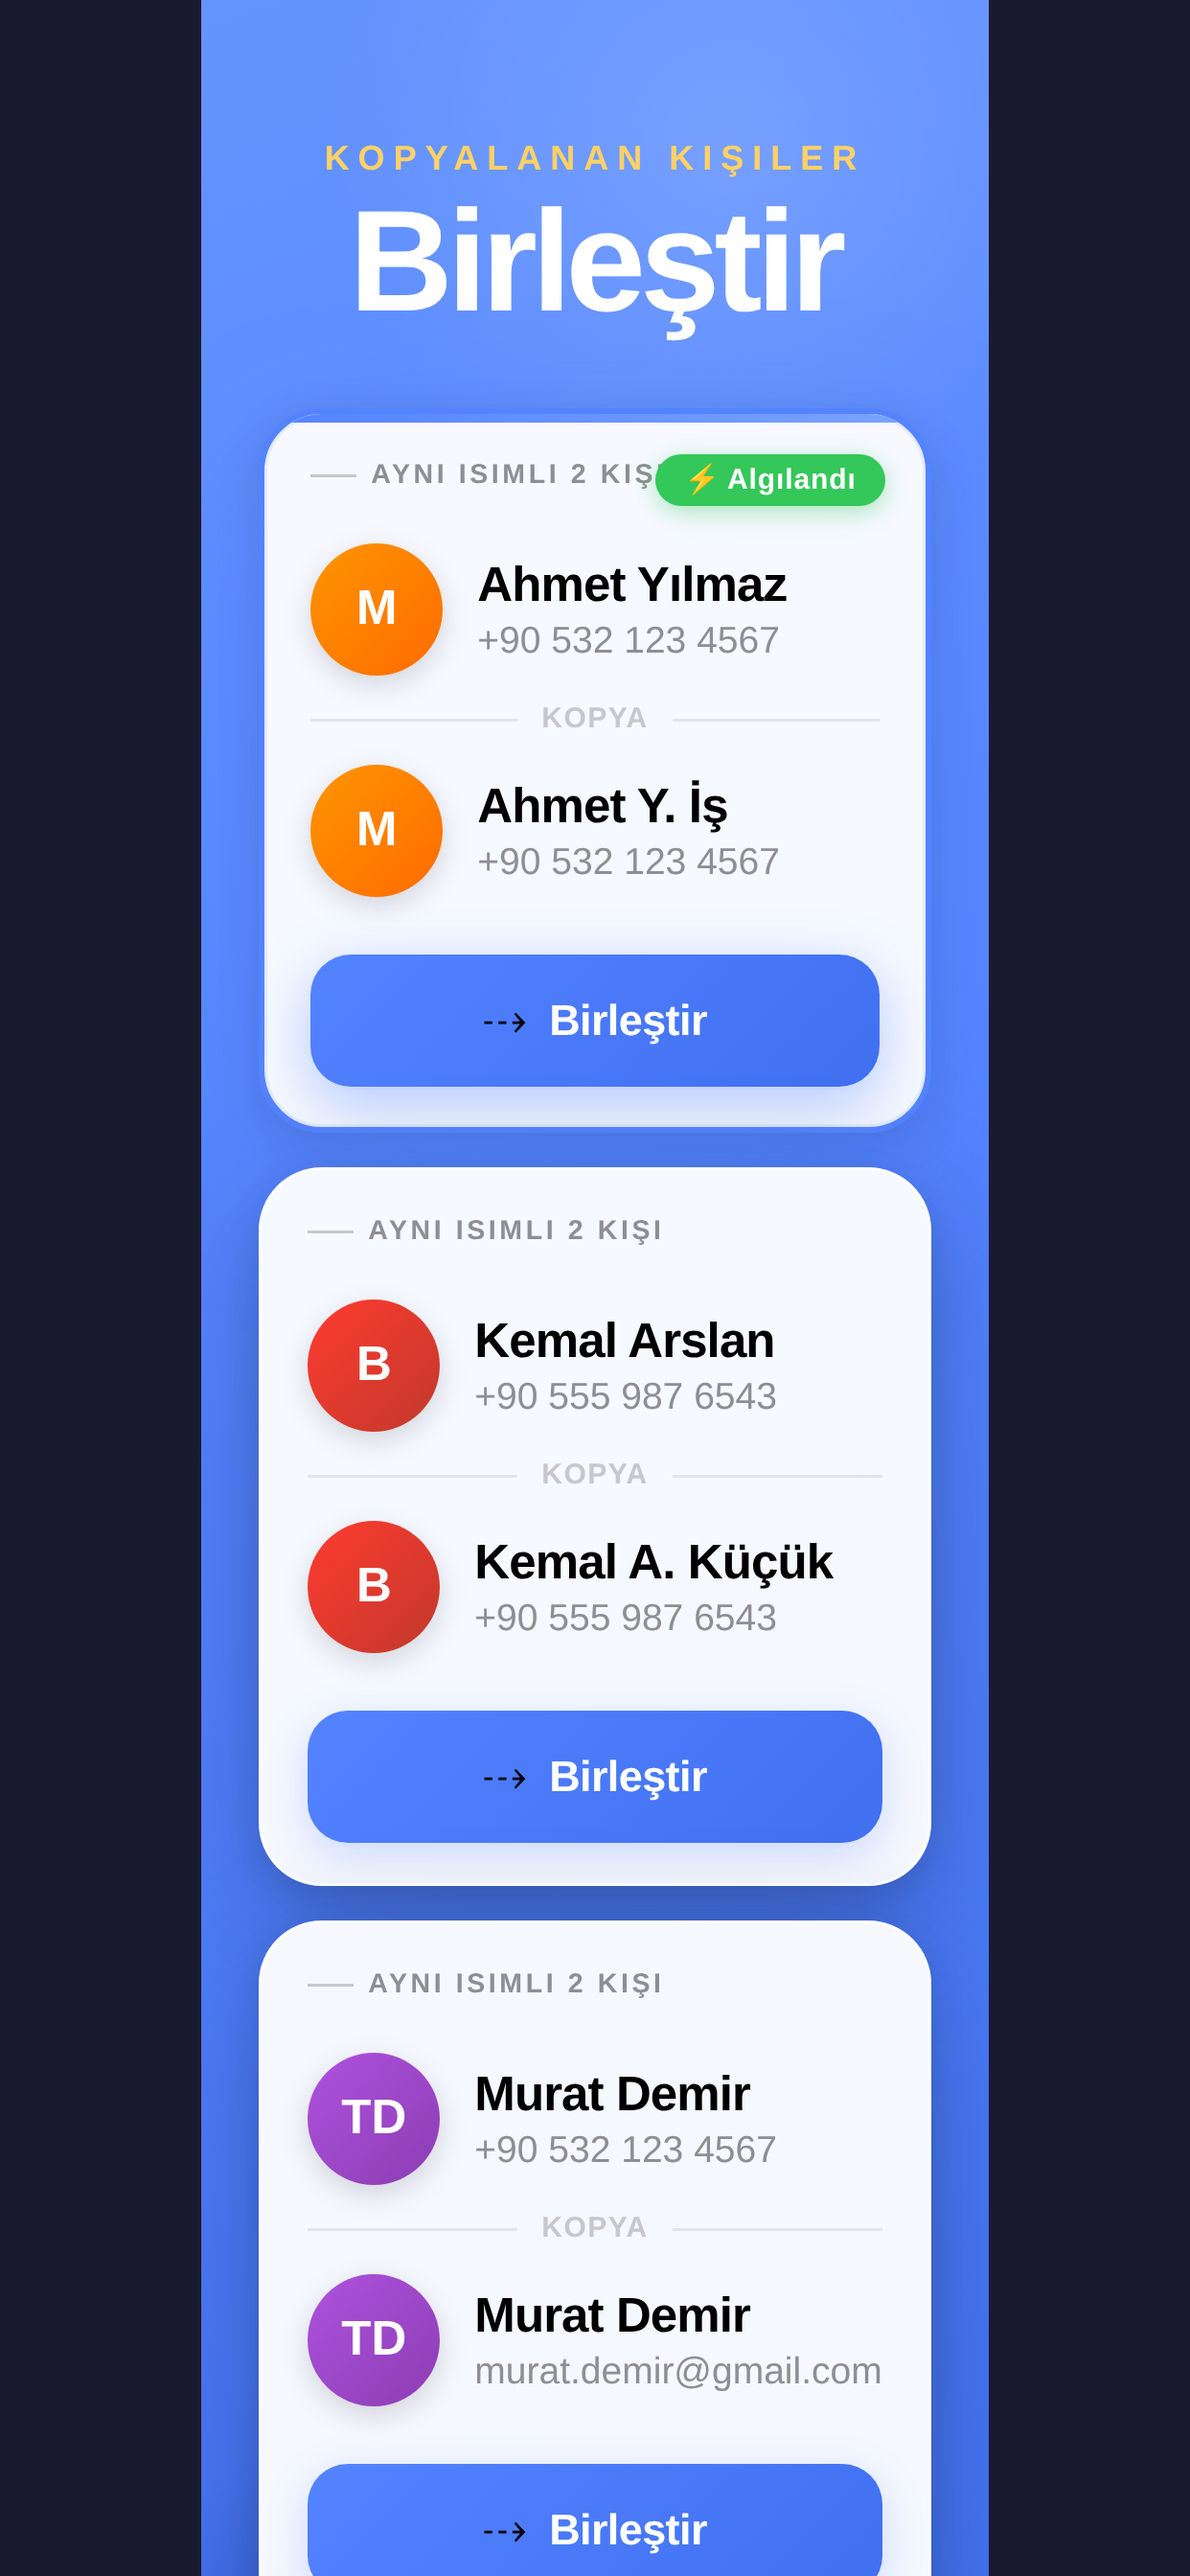
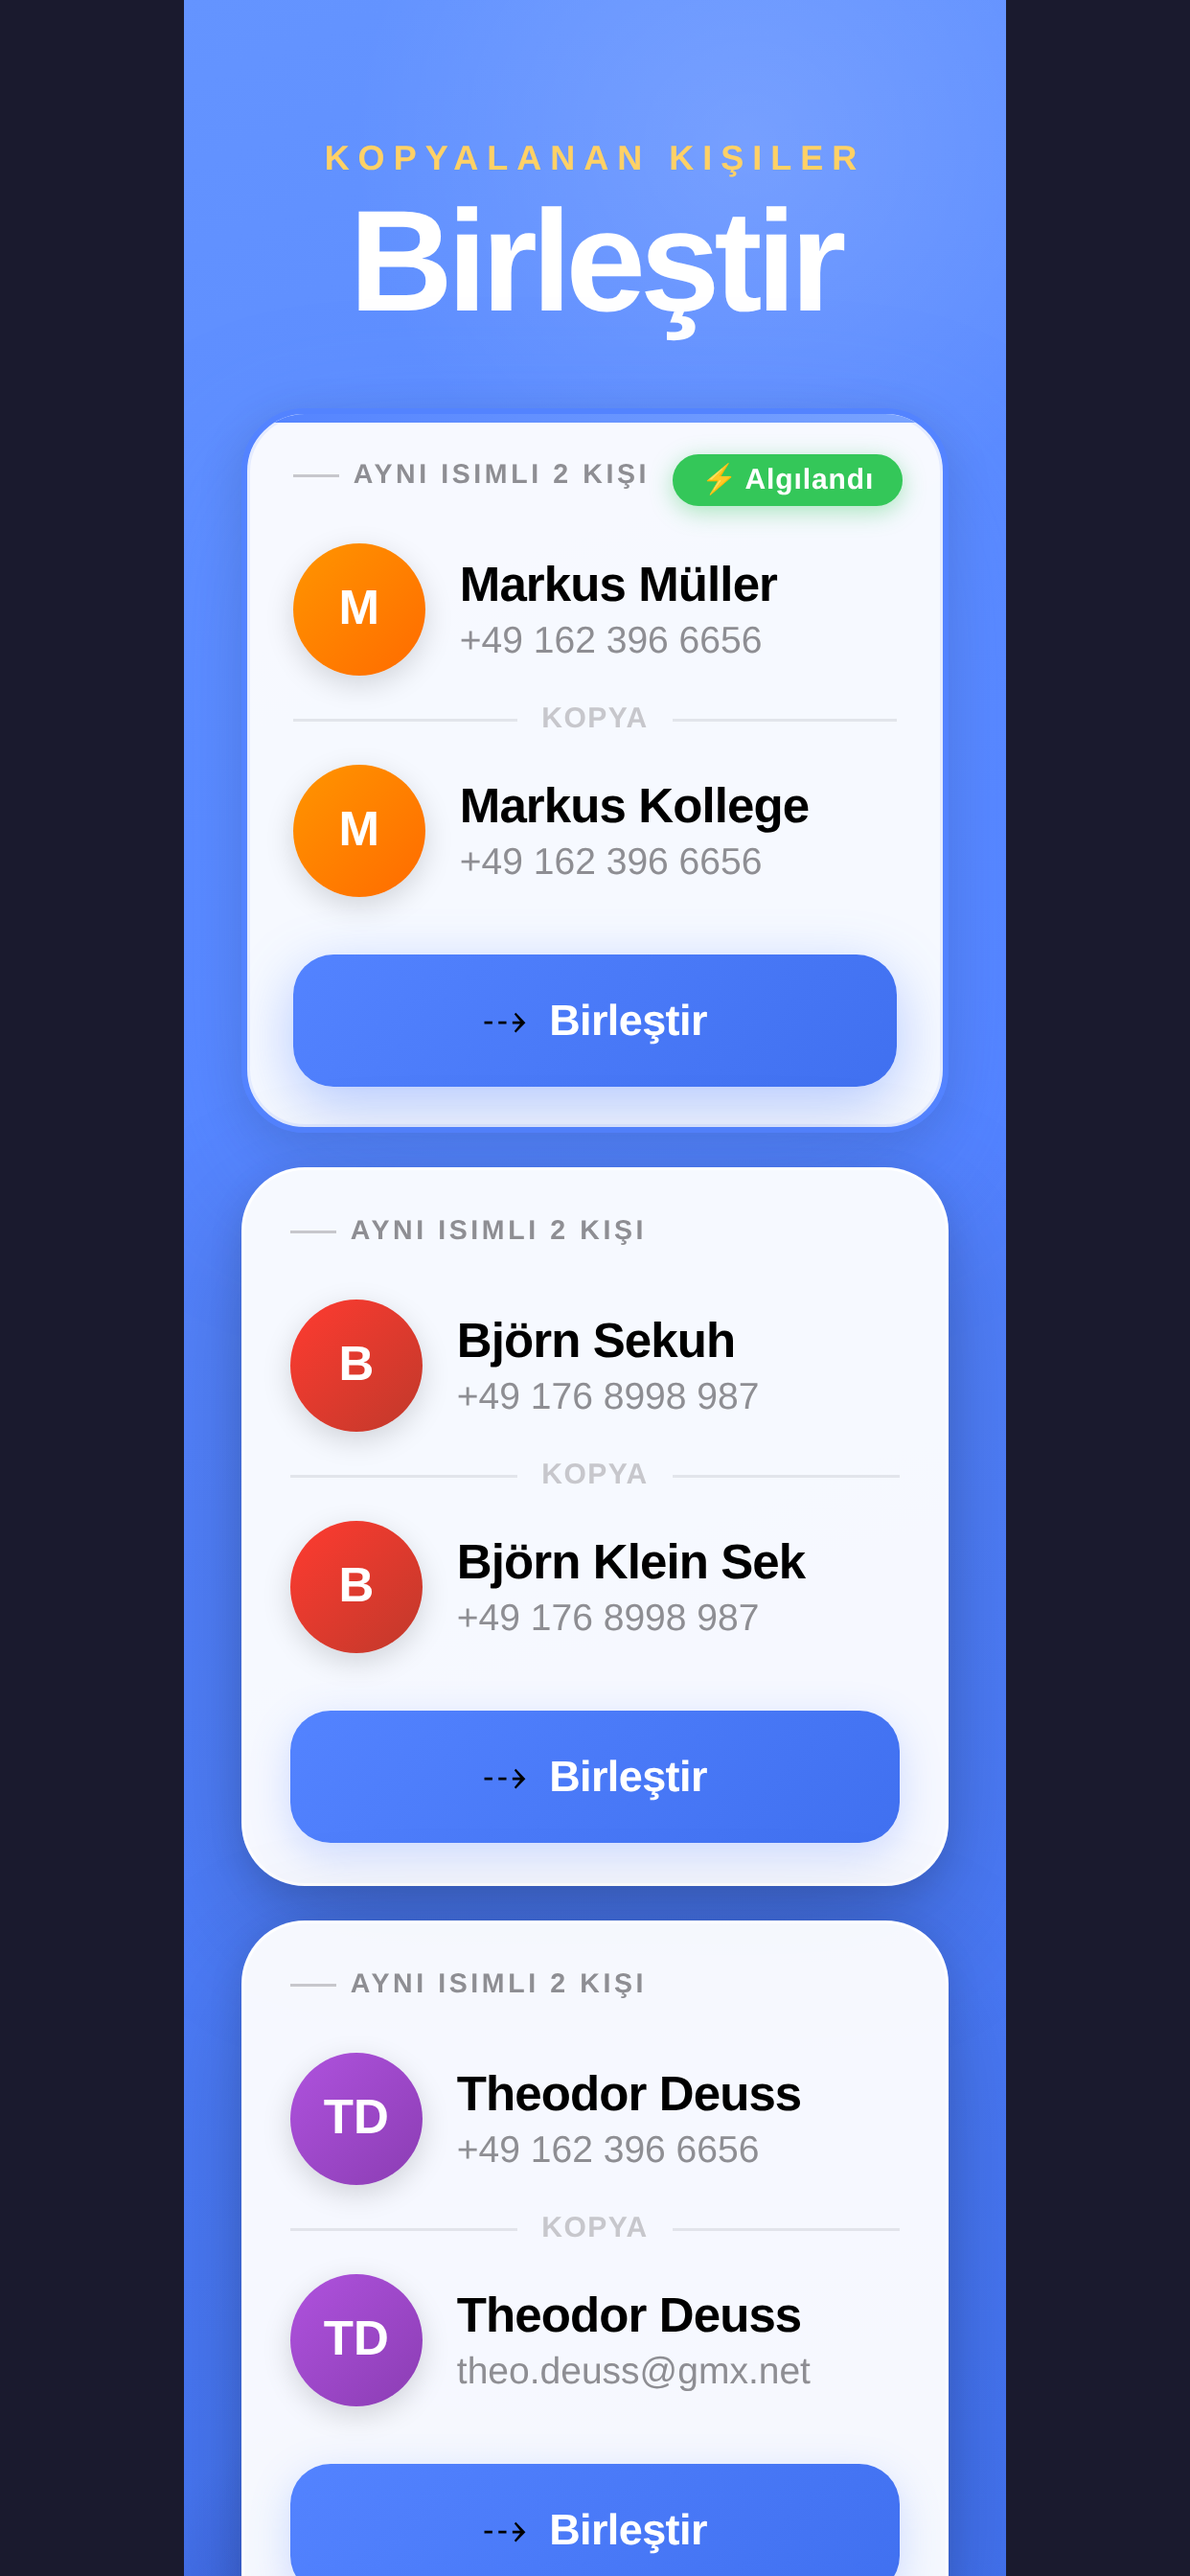
fix: EN/TR Slides — alle deutschen Texte korrekt übersetzt (Automatisch→Automatically etc.)

diff --git a/frontend/assets/screenshot_slide5_tr.html b/frontend/assets/screenshot_slide5_tr.html
@@ -191,8 +191,8 @@
       <div class="contact-row">
         <div class="avatar" style="background: linear-gradient(135deg, #FF9500, #FF6B00);">M</div>
         <div class="contact-info">
-          <div class="contact-name">Ahmet Yılmaz</div>
-          <div class="contact-detail">+90 532 123 4567</div>
+          <div class="contact-name">Markus Müller</div>
+          <div class="contact-detail">+49 162 396 6656</div>
         </div>
       </div>
 
@@ -205,8 +205,8 @@
       <div class="contact-row">
         <div class="avatar" style="background: linear-gradient(135deg, #FF9500, #FF6B00);">M</div>
         <div class="contact-info">
-          <div class="contact-name">Ahmet Y. İş</div>
-          <div class="contact-detail">+90 532 123 4567</div>
+          <div class="contact-name">Markus Kollege</div>
+          <div class="contact-detail">+49 162 396 6656</div>
         </div>
       </div>
 
@@ -223,8 +223,8 @@
       <div class="contact-row">
         <div class="avatar" style="background: linear-gradient(135deg, #FF3B30, #C0392B);">B</div>
         <div class="contact-info">
-          <div class="contact-name">Kemal Arslan</div>
-          <div class="contact-detail">+90 555 987 6543</div>
+          <div class="contact-name">Björn Sekuh</div>
+          <div class="contact-detail">+49 176 8998 987</div>
         </div>
       </div>
 
@@ -237,8 +237,8 @@
       <div class="contact-row">
         <div class="avatar" style="background: linear-gradient(135deg, #FF3B30, #C0392B);">B</div>
         <div class="contact-info">
-          <div class="contact-name">Kemal A. Küçük</div>
-          <div class="contact-detail">+90 555 987 6543</div>
+          <div class="contact-name">Björn Klein Sek</div>
+          <div class="contact-detail">+49 176 8998 987</div>
         </div>
       </div>
 
@@ -255,8 +255,8 @@
       <div class="contact-row">
         <div class="avatar" style="background: linear-gradient(135deg, #AF52DE, #8B3DB3);">TD</div>
         <div class="contact-info">
-          <div class="contact-name">Murat Demir</div>
-          <div class="contact-detail">+90 532 123 4567</div>
+          <div class="contact-name">Theodor Deuss</div>
+          <div class="contact-detail">+49 162 396 6656</div>
         </div>
       </div>
 
@@ -269,8 +269,8 @@
       <div class="contact-row">
         <div class="avatar" style="background: linear-gradient(135deg, #AF52DE, #8B3DB3);">TD</div>
         <div class="contact-info">
-          <div class="contact-name">Murat Demir</div>
-          <div class="contact-detail">murat.demir@gmail.com</div>
+          <div class="contact-name">Theodor Deuss</div>
+          <div class="contact-detail">theo.deuss@gmx.net</div>
         </div>
       </div>
 
@@ -283,7 +283,7 @@
     <!-- Bottom counter -->
     <div class="counter">
       <div class="counter-dot"></div>
-      <span class="counter-text">14 kopya grup bulundu</span>
+      <span class="counter-text">14 Kopya-Gruppen gefunden</span>
     </div>
 
   </div>

diff --git a/frontend/assets/screenshot_slide2_en.html b/frontend/assets/screenshot_slide2_en.html
@@ -173,7 +173,7 @@
 
     <!-- DUPLICATEE -->
     <div class="section">
-      <div class="section-eyebrow">Automatisch</div>
+      <div class="section-eyebrow">Automatically</div>
       <div class="section-title">Duplicates</div>
       <div class="pair">
         <div class="slot">
@@ -205,7 +205,7 @@
 
     <!-- ÄHNLICHE FOTOS -->
     <div class="section">
-      <div class="section-eyebrow">Und findet</div>
+      <div class="section-eyebrow">And finds</div>
       <div class="section-title">Similar Photos</div>
       <div class="pair">
         <div class="slot">

diff --git a/frontend/assets/screenshot_slide2_tr.html b/frontend/assets/screenshot_slide2_tr.html
@@ -173,7 +173,7 @@
 
     <!-- KOPYAE -->
     <div class="section">
-      <div class="section-eyebrow">Automatisch</div>
+      <div class="section-eyebrow">Otomatik</div>
       <div class="section-title">Kopyalar</div>
       <div class="pair">
         <div class="slot">
@@ -205,7 +205,7 @@
 
     <!-- ÄHNLICHE FOTOS -->
     <div class="section">
-      <div class="section-eyebrow">Und findet</div>
+      <div class="section-eyebrow">Ve bulur</div>
       <div class="section-title">Benzer Fotoğraflar</div>
       <div class="pair">
         <div class="slot">

diff --git a/frontend/assets/screenshot_slide5_en.html b/frontend/assets/screenshot_slide5_en.html
@@ -283,7 +283,7 @@
     <!-- Bottom counter -->
     <div class="counter">
       <div class="counter-dot"></div>
-      <span class="counter-text">14 duplicate groups found</span>
+      <span class="counter-text">14 Duplicate-Gruppen gefunden</span>
     </div>
 
   </div>
